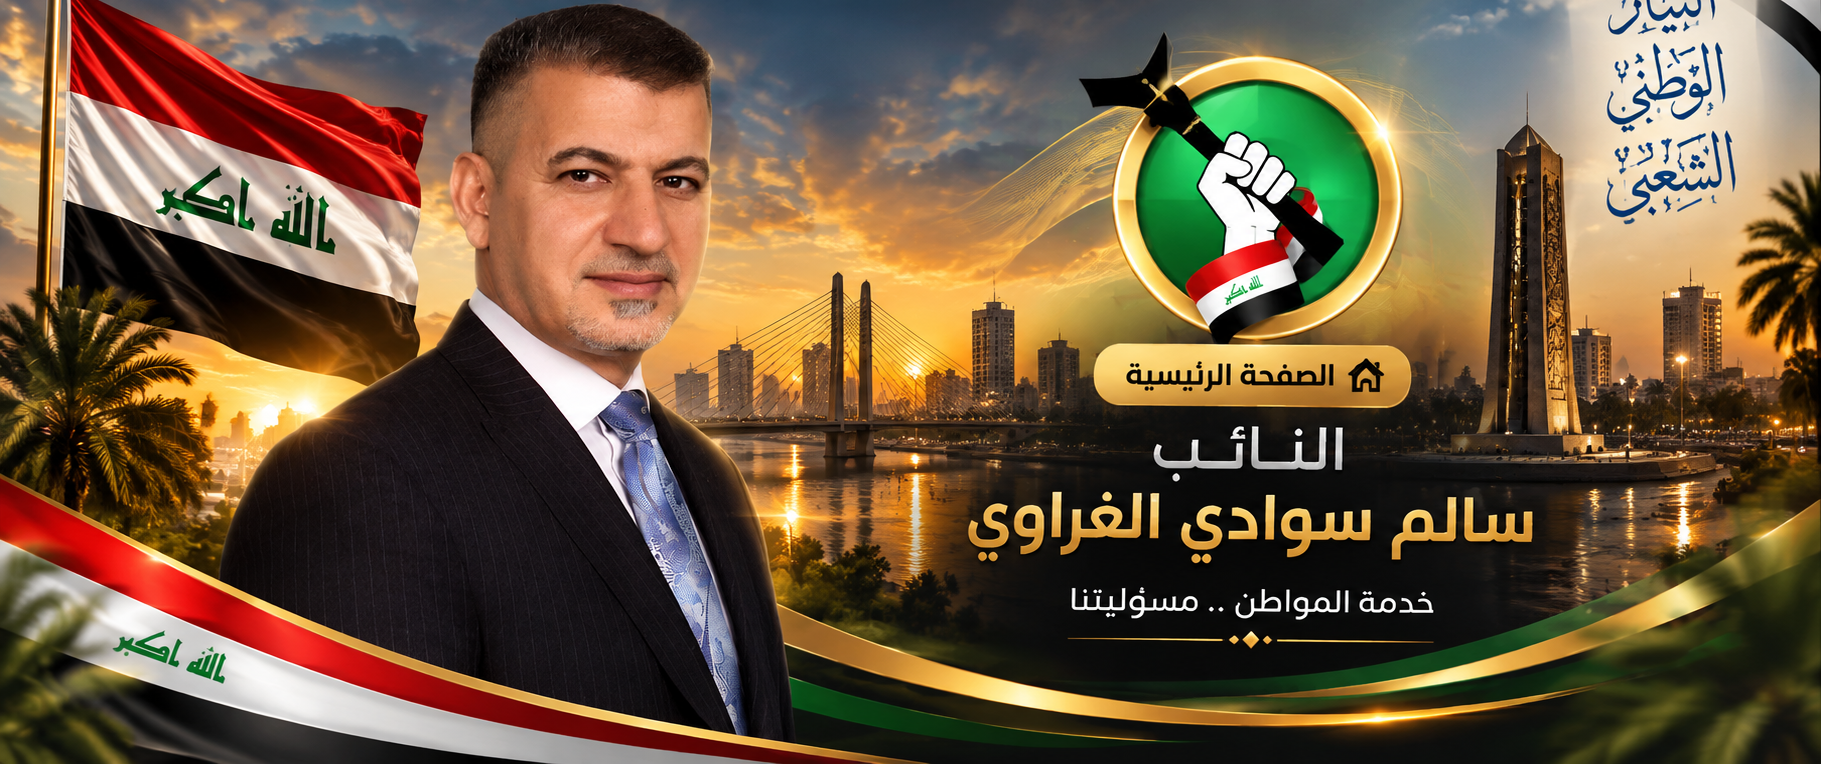
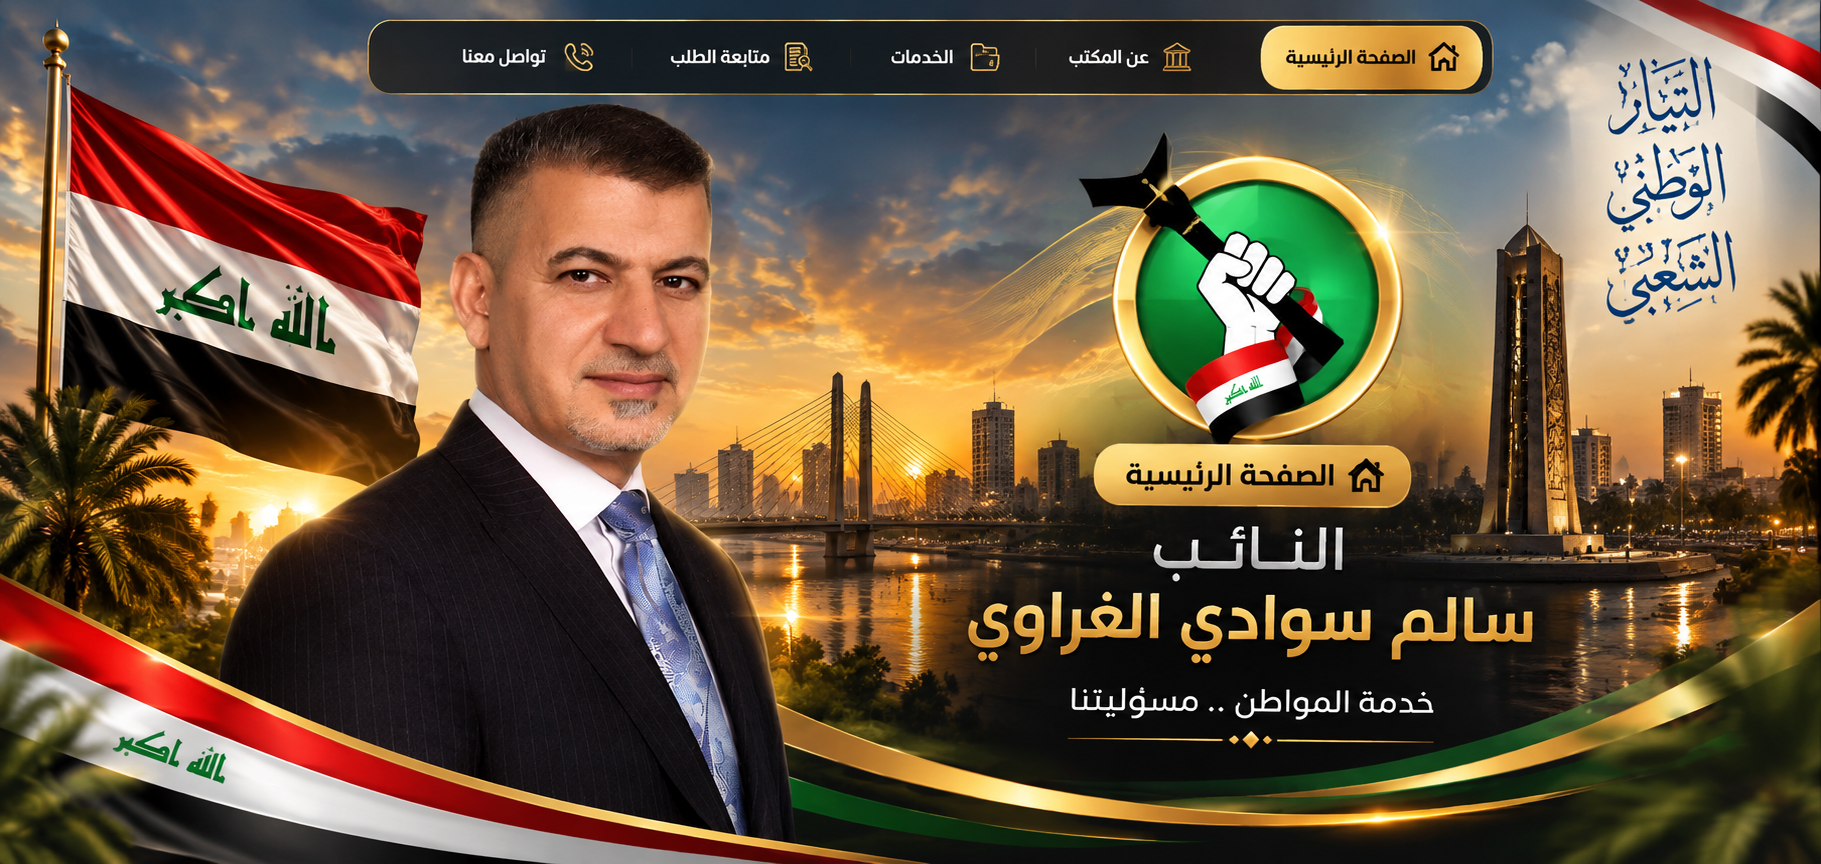
Fit hero calligraphy and redesign about/services viewport pages.
Shrink homepage artwork with object-contain insets so side calligraphy
stays visible. Rebuild /about and /services as gold/black single-screen
layouts with no typical laptop/phone scroll.

diff --git a/src/app/about/page.tsx b/src/app/about/page.tsx
@@ -1,44 +1,78 @@
 import type { Metadata } from "next";
-import { PageShell } from "@/components/page-shell";
+import { BrandViewportShell } from "@/components/brand-viewport-shell";
 import { about, office } from "@/lib/content";
+import { getSiteContentSnapshot } from "@/lib/site-content-store";
 
 export const metadata: Metadata = {
   title: `عن المكتب | ${office.brand}`,
   description: about.lead,
 };
 
-export default function AboutPage() {
+export const dynamic = "force-dynamic";
+
+export default async function AboutPage() {
+  const site = await getSiteContentSnapshot();
+
+  const facts = [
+    { label: "الاسم", value: office.fullName },
+    { label: "الدائرة", value: office.district },
+    { label: "الكتلة", value: office.bloc },
+    { label: "الانتخابات", value: `مجلس النواب ${office.electionYear}` },
+    { label: "الاستقبال", value: site.hours },
+    { label: "الهاتف", value: site.phoneDisplay, href: `tel:${site.phoneTel}` },
+  ];
+
   return (
-    <PageShell title={about.title} lead={about.lead}>
-      <div className="grid gap-10 lg:grid-cols-[1.2fr_0.8fr]">
-        <div className="space-y-5 text-base leading-8 text-foreground/90 sm:text-lg">
-          {about.paragraphs.map((paragraph) => (
-            <p key={paragraph}>{paragraph}</p>
-          ))}
-          <p className="rounded-md border border-dashed border-gold/45 bg-gold/5 px-4 py-3 text-sm leading-7 text-stone-warm">
+    <BrandViewportShell title={about.title} lead={about.lead}>
+      <div className="grid h-full min-h-0 gap-2.5 lg:grid-cols-[1.2fr_0.8fr] lg:gap-3">
+        <div className="flex min-h-0 flex-col justify-start overflow-hidden rounded-xl border border-gold/30 bg-black/45 p-3 sm:rounded-2xl sm:p-4">
+          <p className="text-[10px] font-medium tracking-wide text-gold sm:text-[11px]">
+            {office.mediaOffice}
+          </p>
+          <p className="font-heading mt-0.5 text-base font-bold text-white sm:text-lg">
+            {office.representative}
+          </p>
+          <p className="text-[11px] text-white/55 sm:text-xs">{office.role}</p>
+
+          <div className="mt-2 space-y-1.5 overflow-hidden text-[12px] leading-snug text-white/80 sm:mt-2.5 sm:space-y-2 sm:text-[13px] sm:leading-relaxed">
+            {about.paragraphs.slice(0, 3).map((paragraph) => (
+              <p key={paragraph} className="line-clamp-3 sm:line-clamp-none">
+                {paragraph}
+              </p>
+            ))}
+          </div>
+
+          <p className="mt-2 shrink-0 rounded-md border border-dashed border-gold/35 bg-gold/5 px-2.5 py-1.5 text-[10px] leading-4 text-gold/85 sm:mt-2.5 sm:text-[11px] sm:leading-5">
             {about.note}
           </p>
         </div>
-        <aside className="border-s-4 border-gold bg-[#111111] px-5 py-6 text-white sm:px-6">
-          <p className="text-xs tracking-wide text-gold">{office.mediaOffice}</p>
-          <p className="mt-2 font-heading text-xl font-semibold">{office.representative}</p>
-          <p className="mt-1 text-sm text-white/70">{office.role}</p>
-          <dl className="mt-6 space-y-4 text-sm">
-            <div>
-              <dt className="font-medium text-gold/90">الدائرة</dt>
-              <dd className="mt-1 text-white/75">{office.district}</dd>
+
+        <aside className="grid min-h-0 grid-cols-2 gap-1.5 content-stretch sm:gap-2 lg:grid-cols-2">
+          {facts.map((fact) => (
+            <div
+              key={fact.label}
+              className="flex min-h-0 flex-col justify-center rounded-lg border border-gold/25 bg-gradient-to-br from-[#15120a] to-[#0a0a0a] px-2.5 py-2 sm:rounded-xl sm:px-3 sm:py-2.5"
+            >
+              <p className="text-[9px] font-medium tracking-wide text-gold/90 sm:text-[10px]">
+                {fact.label}
+              </p>
+              {fact.href ? (
+                <a
+                  href={fact.href}
+                  className="unicode-isolate mt-0.5 block text-[11px] font-semibold text-white hover:text-gold sm:text-xs"
+                  dir="ltr"
+                >
+                  {fact.value}
+                </a>
+              ) : (
+                <p className="mt-0.5 line-clamp-2 text-[11px] font-semibold leading-snug text-white sm:text-xs">
+                  {fact.value}
+                </p>
+              )}
             </div>
-            <div>
-              <dt className="font-medium text-gold/90">الكتلة</dt>
-              <dd className="mt-1 text-white/75">{office.bloc}</dd>
-            </div>
-            <div>
-              <dt className="font-medium text-gold/90">الانتخابات</dt>
-              <dd className="mt-1 text-white/75">مجلس النواب {office.electionYear}</dd>
-            </div>
-          </dl>
+          ))}
         </aside>
       </div>
-    </PageShell>
+    </BrandViewportShell>
   );
 }

diff --git a/src/app/services/page.tsx b/src/app/services/page.tsx
@@ -1,6 +1,12 @@
 import type { Metadata } from "next";
-import { FileText, Headphones, Landmark, MessagesSquare } from "lucide-react";
-import { PageShell } from "@/components/page-shell";
+import {
+  FileText,
+  Headphones,
+  Landmark,
+  MessagesSquare,
+  type LucideIcon,
+} from "lucide-react";
+import { BrandViewportShell } from "@/components/brand-viewport-shell";
 import { office, services } from "@/lib/content";
 
 export const metadata: Metadata = {
@@ -8,26 +14,38 @@ export const metadata: Metadata = {
   description: services.lead,
 };
 
-const icons = [FileText, Landmark, MessagesSquare, Headphones];
+const icons: LucideIcon[] = [FileText, Landmark, MessagesSquare, Headphones];
 
 export default function ServicesPage() {
   return (
-    <PageShell title={services.title} lead={services.lead}>
-      <ul className="grid gap-x-10 gap-y-12 sm:grid-cols-2">
+    <BrandViewportShell title={services.title} lead={services.lead}>
+      <ul className="grid h-full min-h-0 grid-cols-2 gap-2 sm:gap-2.5 lg:gap-3">
         {services.items.map((item, index) => {
           const Icon = icons[index] ?? FileText;
           return (
-            <li key={item.title} className="group">
-              <div className="mb-4 inline-flex size-11 items-center justify-center rounded-md bg-primary/10 text-primary transition-transform duration-300 group-hover:-translate-y-0.5">
-                <Icon className="size-5" aria-hidden />
+            <li
+              key={item.title}
+              className="group flex min-h-0 flex-col justify-between overflow-hidden rounded-xl border border-gold/35 bg-gradient-to-br from-[#16120a] via-[#0c0c0c] to-black p-2.5 transition-colors hover:border-gold/70 sm:rounded-2xl sm:p-3.5 lg:p-4"
+            >
+              <div className="inline-flex size-8 items-center justify-center rounded-md border border-gold/40 bg-gold/10 text-gold sm:size-9 lg:size-10">
+                <Icon className="size-3.5 sm:size-4" aria-hidden />
               </div>
-              <h2 className="font-heading text-xl font-semibold">{item.title}</h2>
-              <p className="mt-2 text-base leading-8 text-muted-foreground">{item.description}</p>
-              <span className="mt-4 block h-px w-12 origin-right bg-gold/70 transition-transform duration-300 group-hover:scale-x-150" />
+              <div className="mt-1.5 min-h-0 sm:mt-2">
+                <h2 className="font-heading text-xs font-bold text-white sm:text-sm lg:text-base">
+                  {item.title}
+                </h2>
+                <p className="mt-0.5 line-clamp-4 text-[10px] leading-snug text-white/65 sm:line-clamp-5 sm:text-[11px] sm:leading-relaxed lg:text-xs lg:leading-5">
+                  {item.description}
+                </p>
+              </div>
+              <span
+                className="mt-1.5 block h-px w-7 origin-right bg-gold/55 transition-transform duration-300 group-hover:scale-x-150 sm:mt-2 sm:w-9"
+                aria-hidden
+              />
             </li>
           );
         })}
       </ul>
-    </PageShell>
+    </BrandViewportShell>
   );
 }

diff --git a/src/components/hero.tsx b/src/components/hero.tsx
@@ -7,8 +7,9 @@ import type { SiteContentSnapshot } from "@/lib/site-content";
 
 /**
  * Homepage first surface:
- * - Desktop (md+): full-bleed final wide banner + interactive RTL pill nav
- * - Mobile: chrome (seal · home pill · menu) + mobile banner + black brand + 2×2 cards
+ * - Desktop: artwork shrinks inside the viewport (contain + generous inset) so
+ *   vertical calligraphy (التيار…), name, seal, and slogan stay fully visible.
+ * - Mobile: chrome + contained banner + black brand + 2×2 cards
  */
 export function Hero({ site: _site }: { site: SiteContentSnapshot }) {
   return (
@@ -23,21 +24,20 @@ export function Hero({ site: _site }: { site: SiteContentSnapshot }) {
           النائب سالم سوادي الغراوي
         </h1>
 
-        <Image
-          src={office.bannerSrc}
-          alt={office.bannerAlt}
-          fill
-          priority
-          className="object-cover object-[center_35%] animate-rise lg:object-center"
-          sizes="100vw"
-        />
+        {/* Extra top inset clears the floating pill nav; side inset keeps calligraphy in frame */}
+        <div className="flex min-h-[100dvh] items-center justify-center px-6 pb-8 pt-20 sm:px-10 sm:pb-10 sm:pt-[5.5rem] lg:px-14 lg:pt-24">
+          <Image
+            src={office.bannerSrc}
+            alt={office.bannerAlt}
+            width={1821}
+            height={864}
+            priority
+            className="h-auto w-auto max-h-[calc(100dvh-8rem)] max-w-[min(92vw,1480px)] object-contain animate-rise"
+            sizes="(max-width: 1280px) 90vw, 1480px"
+          />
+        </div>
 
-        <div
-          className="pointer-events-none absolute inset-x-0 top-0 z-[1] h-28 bg-gradient-to-b from-black/50 via-black/15 to-transparent"
-          aria-hidden
-        />
-
-        <div className="absolute inset-x-0 top-0 z-20 pt-4 sm:pt-5">
+        <div className="absolute inset-x-0 top-0 z-20 pt-3 sm:pt-4">
           <HeroPillNav floating />
         </div>
       </section>
@@ -53,14 +53,14 @@ export function Hero({ site: _site }: { site: SiteContentSnapshot }) {
 
         <MobileHomeChrome />
 
-        <div className="relative w-full overflow-hidden">
+        <div className="relative w-full bg-black px-2.5">
           <Image
             src={office.mobileBannerSrc}
             alt={office.bannerAlt}
             width={880}
-            height={775}
+            height={800}
             priority
-            className="h-auto w-full object-cover object-top"
+            className="mx-auto h-auto w-full max-w-full object-contain object-center"
             sizes="100vw"
           />
         </div>

diff --git a/src/components/brand-viewport-shell.tsx b/src/components/brand-viewport-shell.tsx
@@ -1,0 +1,53 @@
+import type { ReactNode } from "react";
+import { HeroPillNav } from "@/components/hero-pill-nav";
+import { office } from "@/lib/content";
+
+/**
+ * Viewport-fit branded shell for inner pages (about / services).
+ * Locks to 100dvh so typical laptop/phone show the page without scrolling.
+ */
+export function BrandViewportShell({
+  title,
+  lead,
+  children,
+}: {
+  title: string;
+  lead: string;
+  children: ReactNode;
+}) {
+  return (
+    <div className="flex h-[100dvh] max-h-[100dvh] flex-col overflow-hidden bg-[#070707] text-white">
+      <header className="shrink-0 border-b border-gold/20 bg-black/85 backdrop-blur-md">
+        <div className="mx-auto max-w-6xl px-3 py-2">
+          <HeroPillNav />
+        </div>
+      </header>
+
+      <main className="relative flex min-h-0 flex-1 flex-col overflow-hidden">
+        <div
+          className="pointer-events-none absolute inset-0 bg-[radial-gradient(ellipse_at_top,_rgba(201,162,39,0.14),_transparent_50%),linear-gradient(180deg,#0e0e0e_0%,#070707_50%,#050505_100%)]"
+          aria-hidden
+        />
+        <div className="relative z-[1] mx-auto flex h-full w-full max-w-6xl flex-col overflow-hidden px-3 py-2.5 sm:px-5 sm:py-3 lg:px-6 lg:py-3.5">
+          <div className="shrink-0 text-center sm:text-start">
+            <p className="text-[10px] tracking-wide text-gold/80 sm:text-[11px]">{office.slogan}</p>
+            <h1 className="font-heading mt-0.5 text-xl font-bold text-gold sm:text-2xl lg:text-[1.75rem]">
+              {title}
+            </h1>
+            <p className="mt-0.5 line-clamp-2 max-w-2xl text-xs leading-snug text-white/65 sm:text-sm sm:leading-relaxed">
+              {lead}
+            </p>
+            <div
+              className="mx-auto mt-1.5 h-px w-14 bg-gradient-to-l from-transparent via-gold/70 to-transparent sm:mx-0"
+              aria-hidden
+            />
+          </div>
+
+          <div className="mt-2 flex min-h-0 flex-1 flex-col overflow-hidden sm:mt-2.5">
+            {children}
+          </div>
+        </div>
+      </main>
+    </div>
+  );
+}
